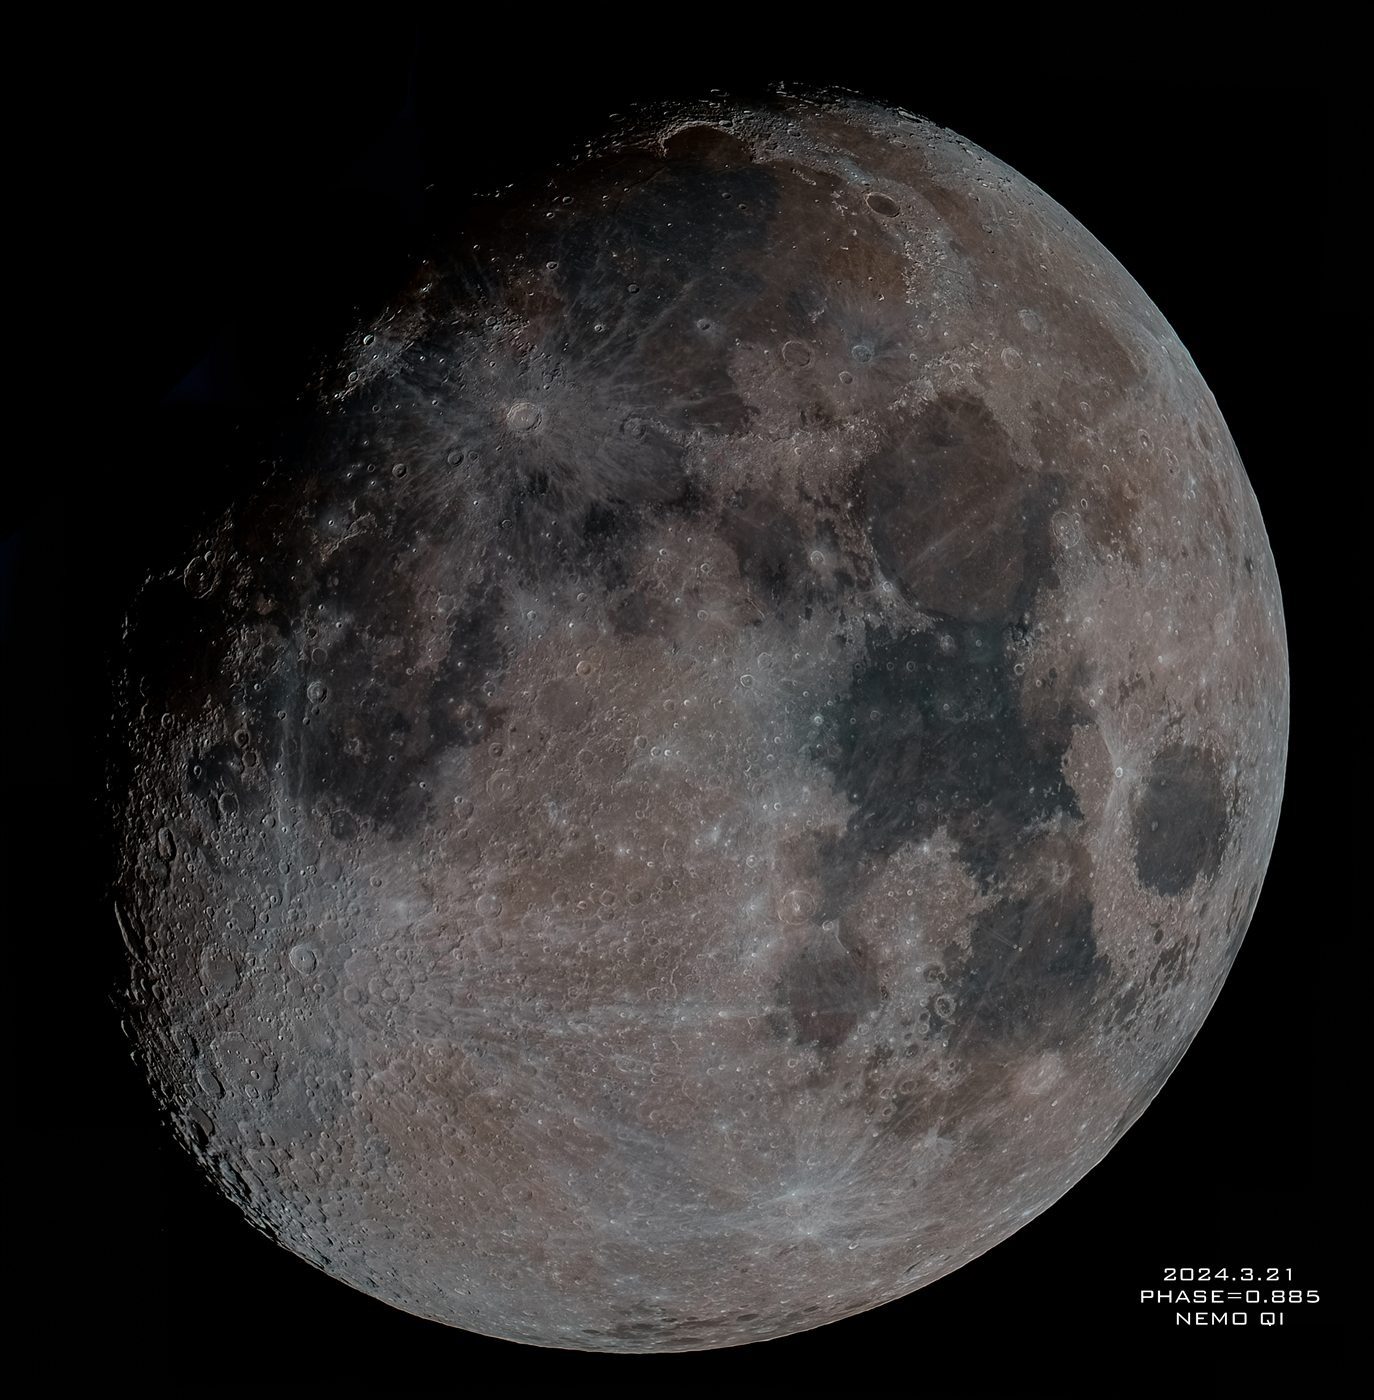
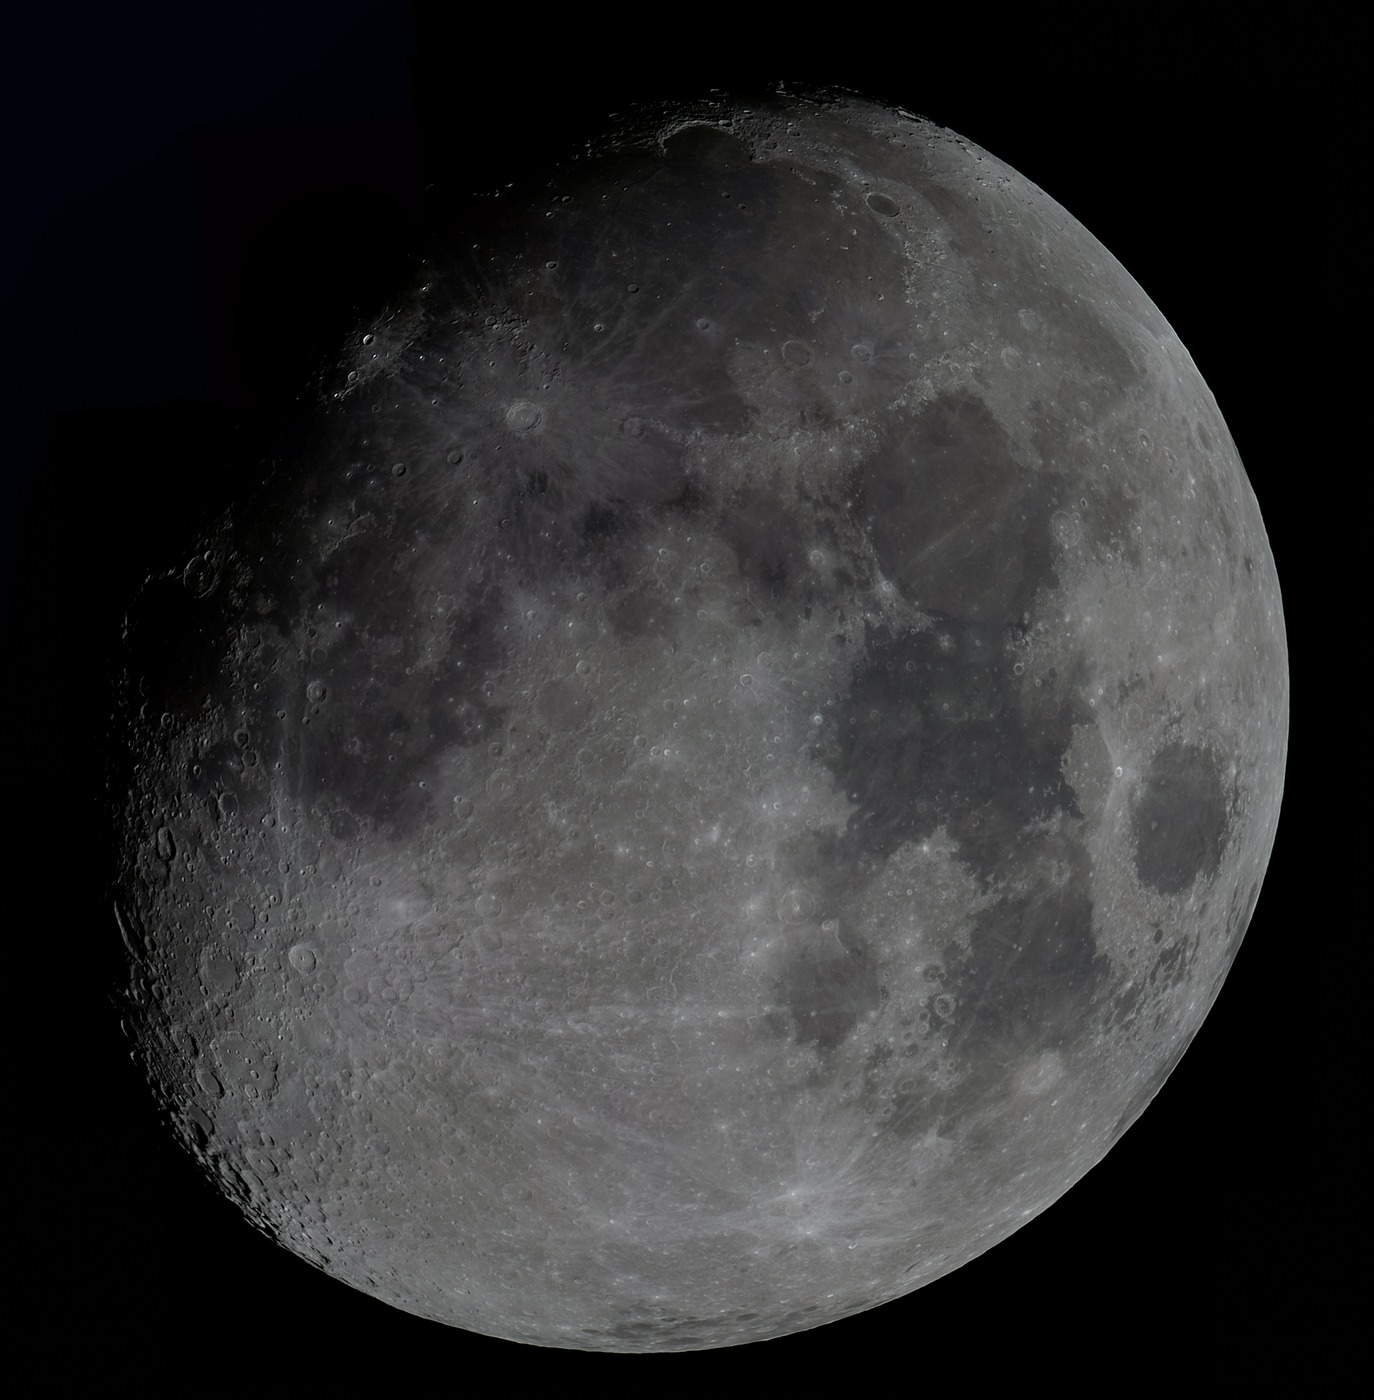
Replace duplicate moon field image

diff --git a/site/index.html b/site/index.html
@@ -215,9 +215,9 @@ sudo apt install apt</code></pre>
                   </figcaption>
                 </figure>
                 <figure class="astro-card">
-                  <img src="assets/astronomy/moon-wide-field.jpg" data-full="assets/preview/astronomy/moon-wide-field.jpg" alt="Supplied Moon observation field image" loading="lazy" decoding="async" />
+                  <img src="assets/astronomy/moon-wide-field.jpg" data-full="assets/preview/astronomy/moon-wide-field.jpg" alt="Monochrome unrendered Moon field image" loading="lazy" decoding="async" />
                   <figcaption>
-                    <span>Lunar</span>
+                    <span>Lunar / monochrome</span>
                     <strong>Moon field study</strong>
                   </figcaption>
                 </figure>

diff --git a/docs/progress.md b/docs/progress.md
@@ -77,6 +77,8 @@
 - Optimized the astronomy background orbit layer by caching static orbit rings on an
   offscreen canvas, reducing starfield node count and pair-distance cost, and increasing
   the contrast of both the page background orbit and the in-card solar-system widget.
+- Replaced the duplicate colored `Moon field study` astronomy card with the supplied
+  monochrome unrendered Moon frame while keeping the high-resolution preview path in sync.
 ## Next Data Needed
 
 - Final blog post titles and any real article URLs.